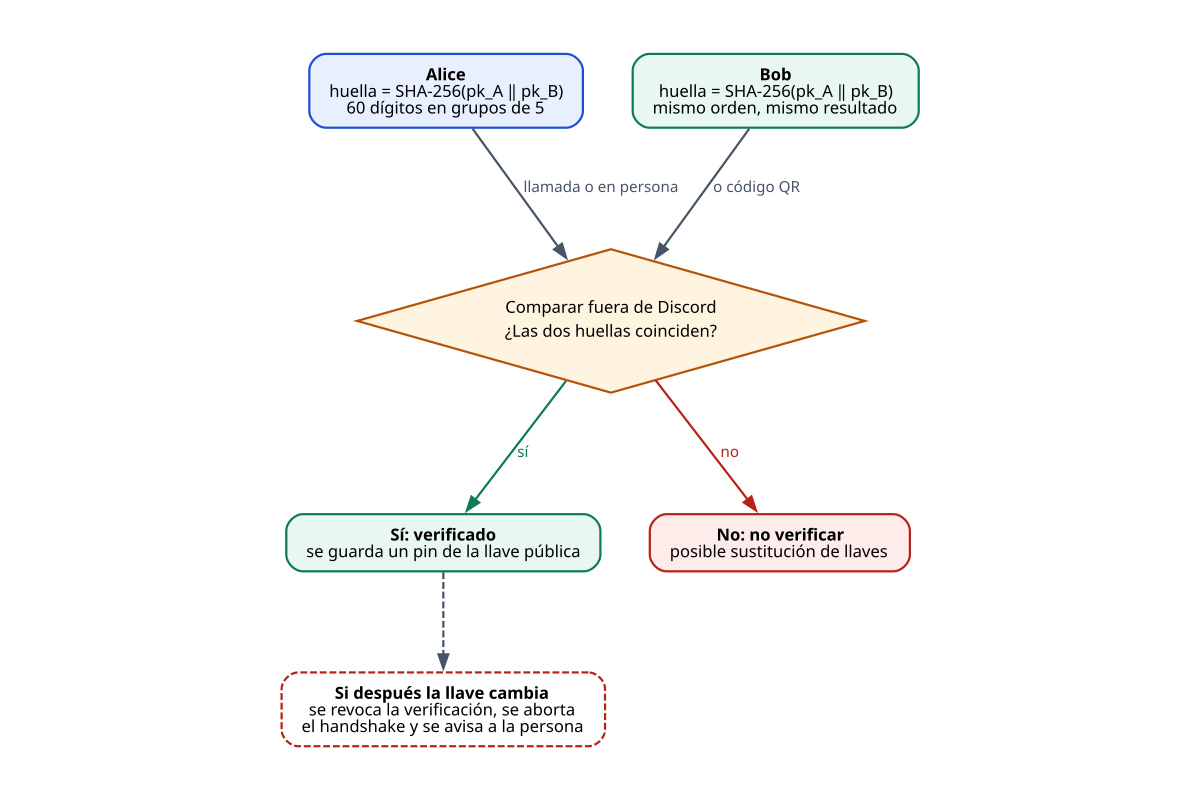
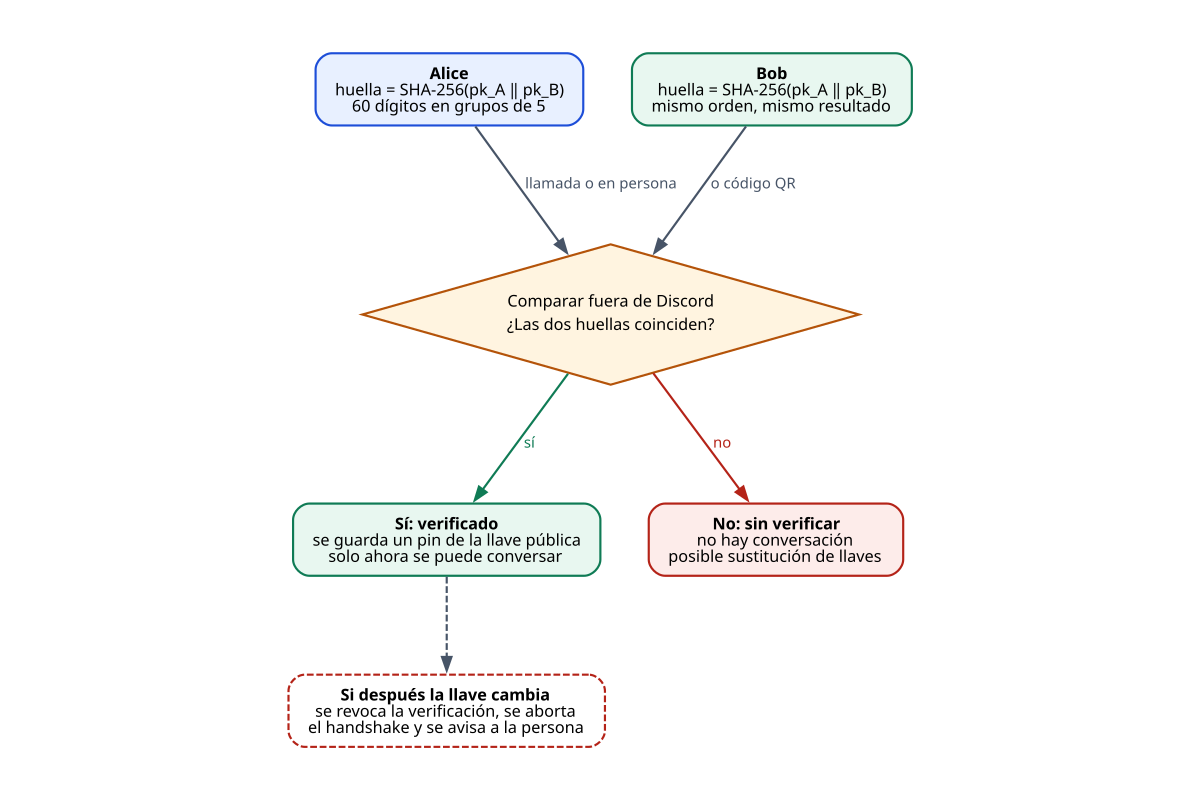
Implementa verificación obligatoria de huellas para conversaciones y actualiza políticas de seguridad
- Modifica la política de respuesta a incidentes para reflejar la necesidad de verificar huellas fuera de Discord antes de iniciar conversaciones.
- Actualiza la política de uso seguro para incluir la verificación de huellas como requisito previo para el envío y recepción de mensajes.
- Cambia la especificación del sistema para que los contactos deban ser verificados antes de abrir sesiones o intercambiar mensajes.
- Ajusta la interfaz de usuario para deshabilitar el envío de mensajes y mostrar alertas si la huella no ha sido verificada.
- Actualiza pruebas de extremo a extremo para asegurar que la verificación de huellas es obligatoria en ambos extremos antes de permitir la comunicación.
- Añade mensajes de error específicos para indicar la necesidad de verificar huellas antes de interactuar con un contacto.

diff --git a/frontend/components/ChatPanel.tsx b/frontend/components/ChatPanel.tsx
@@ -49,7 +49,7 @@ export function ChatPanel({ api, conv, messages, loaded, onChanged, onVerify, on
   const send = async (e?: FormEvent) => {
     e?.preventDefault();
     const body = text.trim();
-    if (!body) return;
+    if (!body || !conv.verified) return;
     setError(null);
     try {
       await api.send(conv.discord_id, body);
@@ -120,6 +120,13 @@ export function ChatPanel({ api, conv, messages, loaded, onChanged, onVerify, on
         </div>
       )}
 
+      {!conv.verified && view.notice?.kind !== 'key' && (
+        <div className="alert bad" role="alert" data-testid="verify-required">
+          Verifica la huella de {name} para conversar. Sin esa verificación no se envía ni se recibe ningún mensaje.
+          <button className="small" onClick={onVerify}>Verificar ahora</button>
+        </div>
+      )}
+
       {view.notice && (
         <div className={`alert${view.notice.kind === 'key' ? ' bad' : ''}`} role="alert">
           {view.notice.text}
@@ -174,13 +181,14 @@ export function ChatPanel({ api, conv, messages, loaded, onChanged, onVerify, on
         <textarea
           rows={1}
           maxLength={8000}
-          placeholder="Escribe un mensaje cifrado de extremo a extremo..."
+          placeholder={conv.verified ? 'Escribe un mensaje cifrado de extremo a extremo...' : 'Verifica la huella para poder escribir'}
+          disabled={!conv.verified}
           value={text}
           onChange={(e) => setText(e.target.value)}
           onKeyDown={onKey}
           required
         />
-        <button className="primary">Enviar</button>
+        <button className="primary" disabled={!conv.verified}>Enviar</button>
       </form>
     </div>
   );

diff --git a/frontend/lib/format.ts b/frontend/lib/format.ts
@@ -12,6 +12,7 @@ const ERRORS: Record<string, string> = {
   not_found: 'No se encontró lo que buscas.',
   conflict: 'La operación no se pudo completar.',
   key_changed: 'La llave del contacto cambió: hay que verificar la nueva huella.',
+  verification_required: 'Verifica la huella de este contacto antes de conversar.',
   peer_key_unavailable: 'No se pudo obtener la llave del contacto (¿está registrado en el directorio?).',
   invalid: 'Revisa los datos ingresados.',
   login_required: 'Antes inicia sesión con Discord (python -m directory.client_lib.login) y vuelve a intentarlo dentro de 10 minutos.',

diff --git a/frontend/test/format.test.ts b/frontend/test/format.test.ts
@@ -77,3 +77,7 @@ test('los errores se muestran en español y sin detalles internos', () => {
 test('formatTime usa dos dígitos', () => {
   assert.match(formatTime(1_800_000_000), /^\d\d:\d\d$/);
 });
+
+test('C-26: enviar sin verificar la huella se explica con un mensaje propio', () => {
+  assert.match(errorMessage({ code: 'verification_required' }), /Verifica la huella/);
+});

diff --git a/client/orchestrator.py b/client/orchestrator.py
@@ -22,7 +22,7 @@ from crypto.wire import Hs1, Hs2, Hs3, Msg
 
 from .errors import (
     BadPassword, Conflict, DirectoryUnavailable, KeyChanged, Locked, LoginRequired, NotFound, PeerUnavailable,
-    TooManyAttempts,
+    TooManyAttempts, VerificationRequired,
     MfaRequired, MfaRejected,
 )
 from .ports import DirectoryPort, DiscordPort
@@ -535,6 +535,8 @@ class Orchestrator:
         with self._lock:
             self._need_identity()
             contact = self._get_contact(discord_id)
+            if not contact.verified:
+                raise VerificationRequired("verifica la huella del contacto antes de conversar")
             if not text or not text.strip():
                 raise Conflict("el mensaje está vacío")
             for part in _chunks(text):
@@ -550,9 +552,17 @@ class Orchestrator:
             contact = self._get_contact(discord_id)
             peer = self._peer(discord_id)
             peer.attempts, peer.next_attempt_at = 0, 0.0
+            try:
+                self._peer_key(contact)  # vuelve a comparar con el directorio, aunque falte verificar
+            except (KeyChanged, PeerUnavailable):
+                pass
             self._save()
             self._pump(discord_id)
             return self._contact_view(contact)
+
+    def _verified(self, discord_id: str) -> bool:
+        contact = self._contacts.get(discord_id)
+        return contact is not None and contact.verified
 
     def _peer(self, discord_id: str) -> _Peer:
         return self._peers.setdefault(discord_id, _Peer())
@@ -564,6 +574,9 @@ class Orchestrator:
         if session is not None and session.destroyed:
             peer.session = session = None
         queue = self._doc["outbox"].get(discord_id, [])
+        contact = self._contacts.get(discord_id)
+        if contact is None or not contact.verified:
+            return  # sin verificación no se envía ni se abre sesión: los mensajes siguen en cola
         if session is not None and not session.expired():
             by_id = {e["id"]: e for e in self._doc["history"].get(discord_id, [])}
             while queue:
@@ -593,6 +606,8 @@ class Orchestrator:
         if now < peer.next_attempt_at:
             return
         contact = self._get_contact(discord_id)
+        if not contact.verified:
+            return  # la verificación de la huella es obligatoria antes de cualquier handshake
         try:
             pk = self._peer_key(contact)
         except (KeyChanged, PeerUnavailable):
@@ -653,6 +668,9 @@ class Orchestrator:
         contact = self._contacts.get(hs1.sender) or Contact(hs1.sender)
         pk = self._peer_key(contact)
         self._contacts[hs1.sender] = contact
+        if not contact.verified:
+            self._save()
+            return  # queda como contacto por verificar; no se responde hasta comparar la huella
         peer = self._peer(hs1.sender)
         if peer.initiator is not None and int(self._my_id) < int(hs1.sender):
             return  # los dos iniciaron a la vez: gana el id menor
@@ -666,7 +684,7 @@ class Orchestrator:
 
     def _on_hs2(self, hs2: Hs2) -> None:
         peer = self._peers.get(hs2.sender)
-        if peer is None or peer.initiator is None:
+        if peer is None or peer.initiator is None or not self._verified(hs2.sender):
             return
         hs3, session = peer.initiator[0].finish(hs2)
         self._activate(hs2.sender, session)
@@ -676,7 +694,7 @@ class Orchestrator:
     def _on_hs3(self, hs3: Hs3) -> None:
         peer = self._peers.get(hs3.sender)
         entry = peer.responders.get(hs3.sid) if peer else None
-        if entry is None:
+        if entry is None or not self._verified(hs3.sender):
             return
         session = entry[0].finish(hs3)
         peer.responders.pop(hs3.sid, None)
@@ -696,7 +714,7 @@ class Orchestrator:
     def _on_msg(self, msg: Msg) -> None:
         key = f"{msg.sid.hex()}:{msg.ctr}"
         bad_key = "x:" + hashlib.sha256(msg.nonce + msg.ct + key.encode()).hexdigest()
-        if msg.sender not in self._contacts or key in self._seen_set or bad_key in self._seen_set:
+        if not self._verified(msg.sender) or key in self._seen_set or bad_key in self._seen_set:
             return  # ya procesado (p. ej. historial del canal reentregado)
         peer = self._peer(msg.sender)
         session = next((s for s in (peer.session, peer.previous[0] if peer.previous else None)

diff --git a/client/tests/test_conversation.py b/client/tests/test_conversation.py
@@ -1,6 +1,6 @@
 import pytest
 
-from client.errors import Conflict, NotFound, PeerUnavailable
+from client.errors import Conflict, NotFound, PeerUnavailable, VerificationRequired
 from client.orchestrator import MAX_ATTEMPTS
 from conftest import ALICE, BOB, CAROL, PASSWORD
 from crypto.constants import HANDSHAKE_TTL, MAX_PLAINTEXT, ROTATE_AFTER_MESSAGES
@@ -166,21 +166,52 @@ def test_se_ignora_lo_que_no_es_del_protocolo_ni_va_dirigido_al_usuario(pair):
         bob.on_discord_message(basura)
     carol = world.user(CAROL)
     carol.add_contact(ALICE)
+    carol._contacts[ALICE].verified = True
     carol.send_text(ALICE, "para alice, no para bob")
     world.flush()
     assert bob.history(ALICE) == []
     assert CAROL not in [c["discord_id"] for c in bob.contacts()]
 
 
-def test_un_desconocido_registrado_en_el_directorio_queda_como_contacto_sin_verificar(pair):
+def test_C26_un_desconocido_registrado_en_el_directorio_queda_sin_verificar_y_sin_sesion(pair):
     world, alice, bob = pair
     carol = world.user(CAROL)
     carol.add_contact(ALICE)
+    carol._contacts[ALICE].verified = True  # Carol ya comparó la huella; Alice todavía no
     carol.send_text(ALICE, "hola, soy Carol")
     world.flush()
     nuevo = {c["discord_id"]: c for c in alice.contacts()}[CAROL]
-    assert nuevo["verified"] is False and nuevo["session"] == "active"
-    assert textos(alice, CAROL) == [("in", "hola, soy Carol", "received")]
+    assert nuevo["verified"] is False and nuevo["session"] == "none"
+    assert alice.history(CAROL) == []  # nada se recibe hasta que Alice verifique la huella
+    alice.verify_contact(CAROL, carol.fingerprint(ALICE)["fingerprint"])
+    alice.send_text(CAROL, "hola Carol")
+    world.flush()
+    assert ("out", "hola Carol", "sent") in textos(alice, CAROL)
+    assert ("in", "hola Carol", "received") in textos(carol, ALICE)
+
+
+def test_C26_sin_verificar_la_huella_no_se_envia_ni_se_abre_sesion(pair_sin_verificar):
+    world, alice, bob = pair_sin_verificar
+    with pytest.raises(VerificationRequired):
+        alice.send_text(BOB, "hola")
+    assert alice.contact(BOB)["queued"] == 0 and world.channel.log == []
+    assert alice.contact(BOB)["session"] == "none"
+
+
+def test_C26_la_verificacion_es_necesaria_en_los_dos_extremos(pair_sin_verificar):
+    world, alice, bob = pair_sin_verificar
+    alice.verify_contact(BOB, bob.fingerprint(ALICE)["fingerprint"])  # Bob todavía no verificó a Alice
+    alice.send_text(BOB, "hola")
+    world.flush()
+    assert alice.contact(BOB)["session"] != "active" and bob.history(ALICE) == []
+    bob.verify_contact(ALICE, alice.fingerprint(BOB)["fingerprint"])
+    world.clock.advance(HANDSHAKE_TTL + 1)  # el intento sin respuesta caduca y se reintenta
+    alice.tick()
+    world.clock.advance(15 * 60 + 1)
+    alice.tick()
+    world.flush()
+    assert alice.contact(BOB)["session"] == bob.contact(ALICE)["session"] == "active"
+    assert textos(bob, ALICE) == [("in", "hola", "received")]
 
 
 def test_ids_no_registrados_en_el_directorio_no_crean_contactos(pair):

diff --git a/client/tests/test_verification.py b/client/tests/test_verification.py
@@ -21,16 +21,16 @@ def test_RF6_ambos_extremos_ven_la_misma_huella(pair):
     assert len(huella.split()) == 12
 
 
-def test_RF7_se_verifica_con_la_huella_leida_fuera_de_discord(pair):
-    _, alice, bob = pair
+def test_RF7_se_verifica_con_la_huella_leida_fuera_de_discord(pair_sin_verificar):
+    _, alice, bob = pair_sin_verificar
     assert alice.contact(BOB)["verified"] is False
     assert alice.verify_contact(BOB, bob.fingerprint(ALICE)["fingerprint"])["verified"] is True
     # también vale sin espacios (p. ej. lo escaneado de un QR)
     assert bob.verify_contact(ALICE, alice.fingerprint(BOB)["fingerprint"].replace(" ", ""))["verified"]
 
 
-def test_RF7_una_huella_incorrecta_no_verifica(pair):
-    _, alice, bob = pair
+def test_RF7_una_huella_incorrecta_no_verifica(pair_sin_verificar):
+    _, alice, bob = pair_sin_verificar
     huella = bob.fingerprint(ALICE)["fingerprint"]
     mala = huella[:-1] + str((int(huella[-1]) + 1) % 10)
     with pytest.raises(Conflict):
@@ -94,8 +94,8 @@ def test_la_llave_cambia_otra_vez_mientras_se_verifica(pair):
         alice.verify_contact(BOB, huella)
 
 
-def test_un_contacto_sin_verificar_que_cambia_de_llave_solo_se_marca(pair):
-    world, alice, bob = pair
+def test_un_contacto_sin_verificar_que_cambia_de_llave_solo_se_marca(pair_sin_verificar):
+    world, alice, bob = pair_sin_verificar
     nueva = Identity.create()
     world.directory.keys[BOB] = nueva.public_key
     alice._peer_key(alice._contacts[BOB])
@@ -112,6 +112,11 @@ def test_si_el_directorio_vuelve_a_la_llave_anclada_se_desbloquea(pair):
     alice.send_text(BOB, "hola")
     assert alice.contact(BOB)["session"] == "key_changed"
     world.directory.keys[BOB] = original
+    alice.retry(BOB)
+    world.flush()
+    # la verificación revocada no se recupera sola: hay que repetir la comparación de la huella
+    assert alice.contact(BOB)["verified"] is False and alice.contact(BOB)["session"] == "none"
+    alice.verify_contact(BOB, bob.fingerprint(ALICE)["fingerprint"])
     alice.retry(BOB)
     world.flush()
     assert alice.contact(BOB)["session"] == "active"

diff --git a/client/tests/test_api.py b/client/tests/test_api.py
@@ -66,19 +66,24 @@ def test_flujo_completo_por_http_entre_dos_usuarios(apis):
     for uid in (ALICE, BOB):
         assert c[uid].post("/contacts", headers=AUTH, json={"discord_id": other[uid], "alias": "x"}).status_code == 201
 
+    # sin verificar la huella no hay conversación
+    sin = c[ALICE].post(f"/conversations/{BOB}/messages", headers=AUTH, json={"text": "hola por http"})
+    assert sin.status_code == 409 and sin.json()["error"] == "verification_required"
+
+    huella = c[ALICE].get(f"/contacts/{BOB}/fingerprint", headers=AUTH).json()["fingerprint"]
+    assert c[BOB].get(f"/contacts/{ALICE}/fingerprint", headers=AUTH).json()["fingerprint"] == huella
+    mala = c[ALICE].post(f"/contacts/{BOB}/verify", headers=AUTH, json={"fingerprint": "00000"})
+    assert mala.status_code == 409
+    for uid in (ALICE, BOB):
+        ok = c[uid].post(f"/contacts/{other[uid]}/verify", headers=AUTH, json={"fingerprint": huella})
+        assert ok.status_code == 200 and ok.json()["verified"] is True
+
     r = c[ALICE].post(f"/conversations/{BOB}/messages", headers=AUTH, json={"text": "hola por http"})
     assert r.status_code == 202
     world.flush()
     mensajes = c[BOB].get(f"/conversations/{ALICE}/messages", headers=AUTH).json()
     assert [m["text"] for m in mensajes] == ["hola por http"] and mensajes[0]["status"] == "received"
     assert c[BOB].get(f"/conversations/{ALICE}/messages?since={mensajes[0]['seq']}", headers=AUTH).json() == []
-
-    huella = c[ALICE].get(f"/contacts/{BOB}/fingerprint", headers=AUTH).json()["fingerprint"]
-    assert c[BOB].get(f"/contacts/{ALICE}/fingerprint", headers=AUTH).json()["fingerprint"] == huella
-    mala = c[ALICE].post(f"/contacts/{BOB}/verify", headers=AUTH, json={"fingerprint": "00000"})
-    assert mala.status_code == 409
-    ok = c[ALICE].post(f"/contacts/{BOB}/verify", headers=AUTH, json={"fingerprint": huella})
-    assert ok.status_code == 200 and ok.json()["verified"] is True
     assert c[ALICE].get("/conversations", headers=AUTH).json()[0]["session"] == "active"
 
 

diff --git a/docs/img/src/make_diagramas.py b/docs/img/src/make_diagramas.py
@@ -87,8 +87,8 @@ digraph G {{
   alice [label=<<b>Alice</b><br/>huella = SHA-256(pk_A ‖ pk_B)<br/>60 dígitos en grupos de 5>, color="{AZUL}", fillcolor="{AZUL_F}"];
   bob   [label=<<b>Bob</b><br/>huella = SHA-256(pk_A ‖ pk_B)<br/>mismo orden, mismo resultado>, color="{VERDE}", fillcolor="{VERDE_F}"];
   cmp [label="Comparar fuera de Discord\\n¿Las dos huellas coinciden?", shape=diamond, style="filled", color="{NARANJA}", fillcolor="{NARANJA_F}"];
-  ok  [label=<<b>Sí: verificado</b><br/>se guarda un pin de la llave pública>, color="{VERDE}", fillcolor="{VERDE_F}"];
-  no  [label=<<b>No: no verificar</b><br/>posible sustitución de llaves>, color="{ROJO}", fillcolor="{ROJO_F}"];
+  ok  [label=<<b>Sí: verificado</b><br/>se guarda un pin de la llave pública<br/>solo ahora se puede conversar>, color="{VERDE}", fillcolor="{VERDE_F}"];
+  no  [label=<<b>No: sin verificar</b><br/>no hay conversación<br/>posible sustitución de llaves>, color="{ROJO}", fillcolor="{ROJO_F}"];
   cambio [label=<<b>Si después la llave cambia</b><br/>se revoca la verificación, se aborta<br/>el handshake y se avisa a la persona>, color="{ROJO}", fillcolor="white", style="rounded,filled,dashed"];
   {{ rank=same; alice; bob; }}
   alice -> cmp [label="llamada o en persona"]; bob -> cmp [label="o código QR"];

diff --git a/client/tests/test_contacts.py b/client/tests/test_contacts.py
@@ -45,7 +45,7 @@ def test_lo_que_llega_por_la_sesion_vieja_se_descarta(pair):
     assert alice.contacts() == []
 
 
-def test_si_el_contacto_quitado_abre_otra_sesion_reaparece_sin_verificar(pair, world):
+def test_si_el_contacto_quitado_escribe_reaparece_sin_verificar_y_sin_sesion(pair, world):
     _, alice, bob = pair
     alice.send_text(BOB, "hola")
     world.flush()
@@ -56,7 +56,8 @@ def test_si_el_contacto_quitado_abre_otra_sesion_reaparece_sin_verificar(pair, w
     world.flush()
     contacto = alice.contact(BOB)
     assert contacto["verified"] is False and contacto["alias"] is None
-    assert [e["text"] for e in alice.history(BOB)] == ["sigo aquí"]
+    assert contacto["session"] == "none"  # sin verificar no se responde ni se recibe nada
+    assert alice.history(BOB) == []
 
 
 def test_quitar_contacto_por_http(world):

diff --git a/client/tests/conftest.py b/client/tests/conftest.py
@@ -65,9 +65,18 @@ def world(tmp_path, clock):
 
 
 @pytest.fixture
-def pair(world):
-    """Alice y Bob con identidad creada y agregados como contactos."""
+def pair_sin_verificar(world):
+    """Alice y Bob con identidad creada y agregados como contactos, pero sin comparar la huella."""
     alice, bob = world.user(ALICE), world.user(BOB)
     alice.add_contact(BOB, "Bob")
     bob.add_contact(ALICE, "Alice")
+    return world, alice, bob
+
+
+@pytest.fixture
+def pair(pair_sin_verificar):
+    """Alice y Bob con la huella verificada en ambos lados: sin esto no hay conversación."""
+    world, alice, bob = pair_sin_verificar
+    alice.verify_contact(BOB, bob.fingerprint(ALICE)["fingerprint"])
+    bob.verify_contact(ALICE, alice.fingerprint(BOB)["fingerprint"])
     return world, alice, bob

diff --git a/discord_adapter/tests/test_adapter.py b/discord_adapter/tests/test_adapter.py
@@ -201,6 +201,8 @@ def test_RF3_RF5_dos_clientes_reales_conversan_por_el_adaptador(guild, tmp_path)
         orch[uid].create_identity(uid, "contraseña-maestra-123", NOTICE_VERSION)
     orch[ALICE].add_contact(BOB, "Bob")
     orch[BOB].add_contact(ALICE, "Alice")
+    orch[ALICE].verify_contact(BOB, orch[BOB].fingerprint(ALICE)["fingerprint"])  # sin verificar no hay chat
+    orch[BOB].verify_contact(ALICE, orch[ALICE].fingerprint(BOB)["fingerprint"])
     orch[ALICE].send_text(BOB, "hola bob, esto va cifrado")
     assert wait_for(lambda: [e.get("text") for e in orch[BOB].history(ALICE)] == ["hola bob, esto va cifrado"])
     orch[BOB].send_text(ALICE, "recibido")

diff --git a/client/tests/test_arco.py b/client/tests/test_arco.py
@@ -20,7 +20,7 @@ def test_acceso_muestra_datos_locales_y_del_directorio(pair):
     local = data["local"]
     assert local["discord_id"] == ALICE and local["public_key"] == b64e(world.directory.keys[ALICE])
     assert local["consent"]["version"] == NOTICE_VERSION
-    assert local["contacts"] == [{"discord_id": BOB, "alias": "Bob", "verified": False}]
+    assert local["contacts"] == [{"discord_id": BOB, "alias": "Bob", "verified": True}]
     assert local["messages"] >= 1
     assert data["directory"]["consent_version"] == NOTICE_VERSION and data["directory_error"] is None
 
